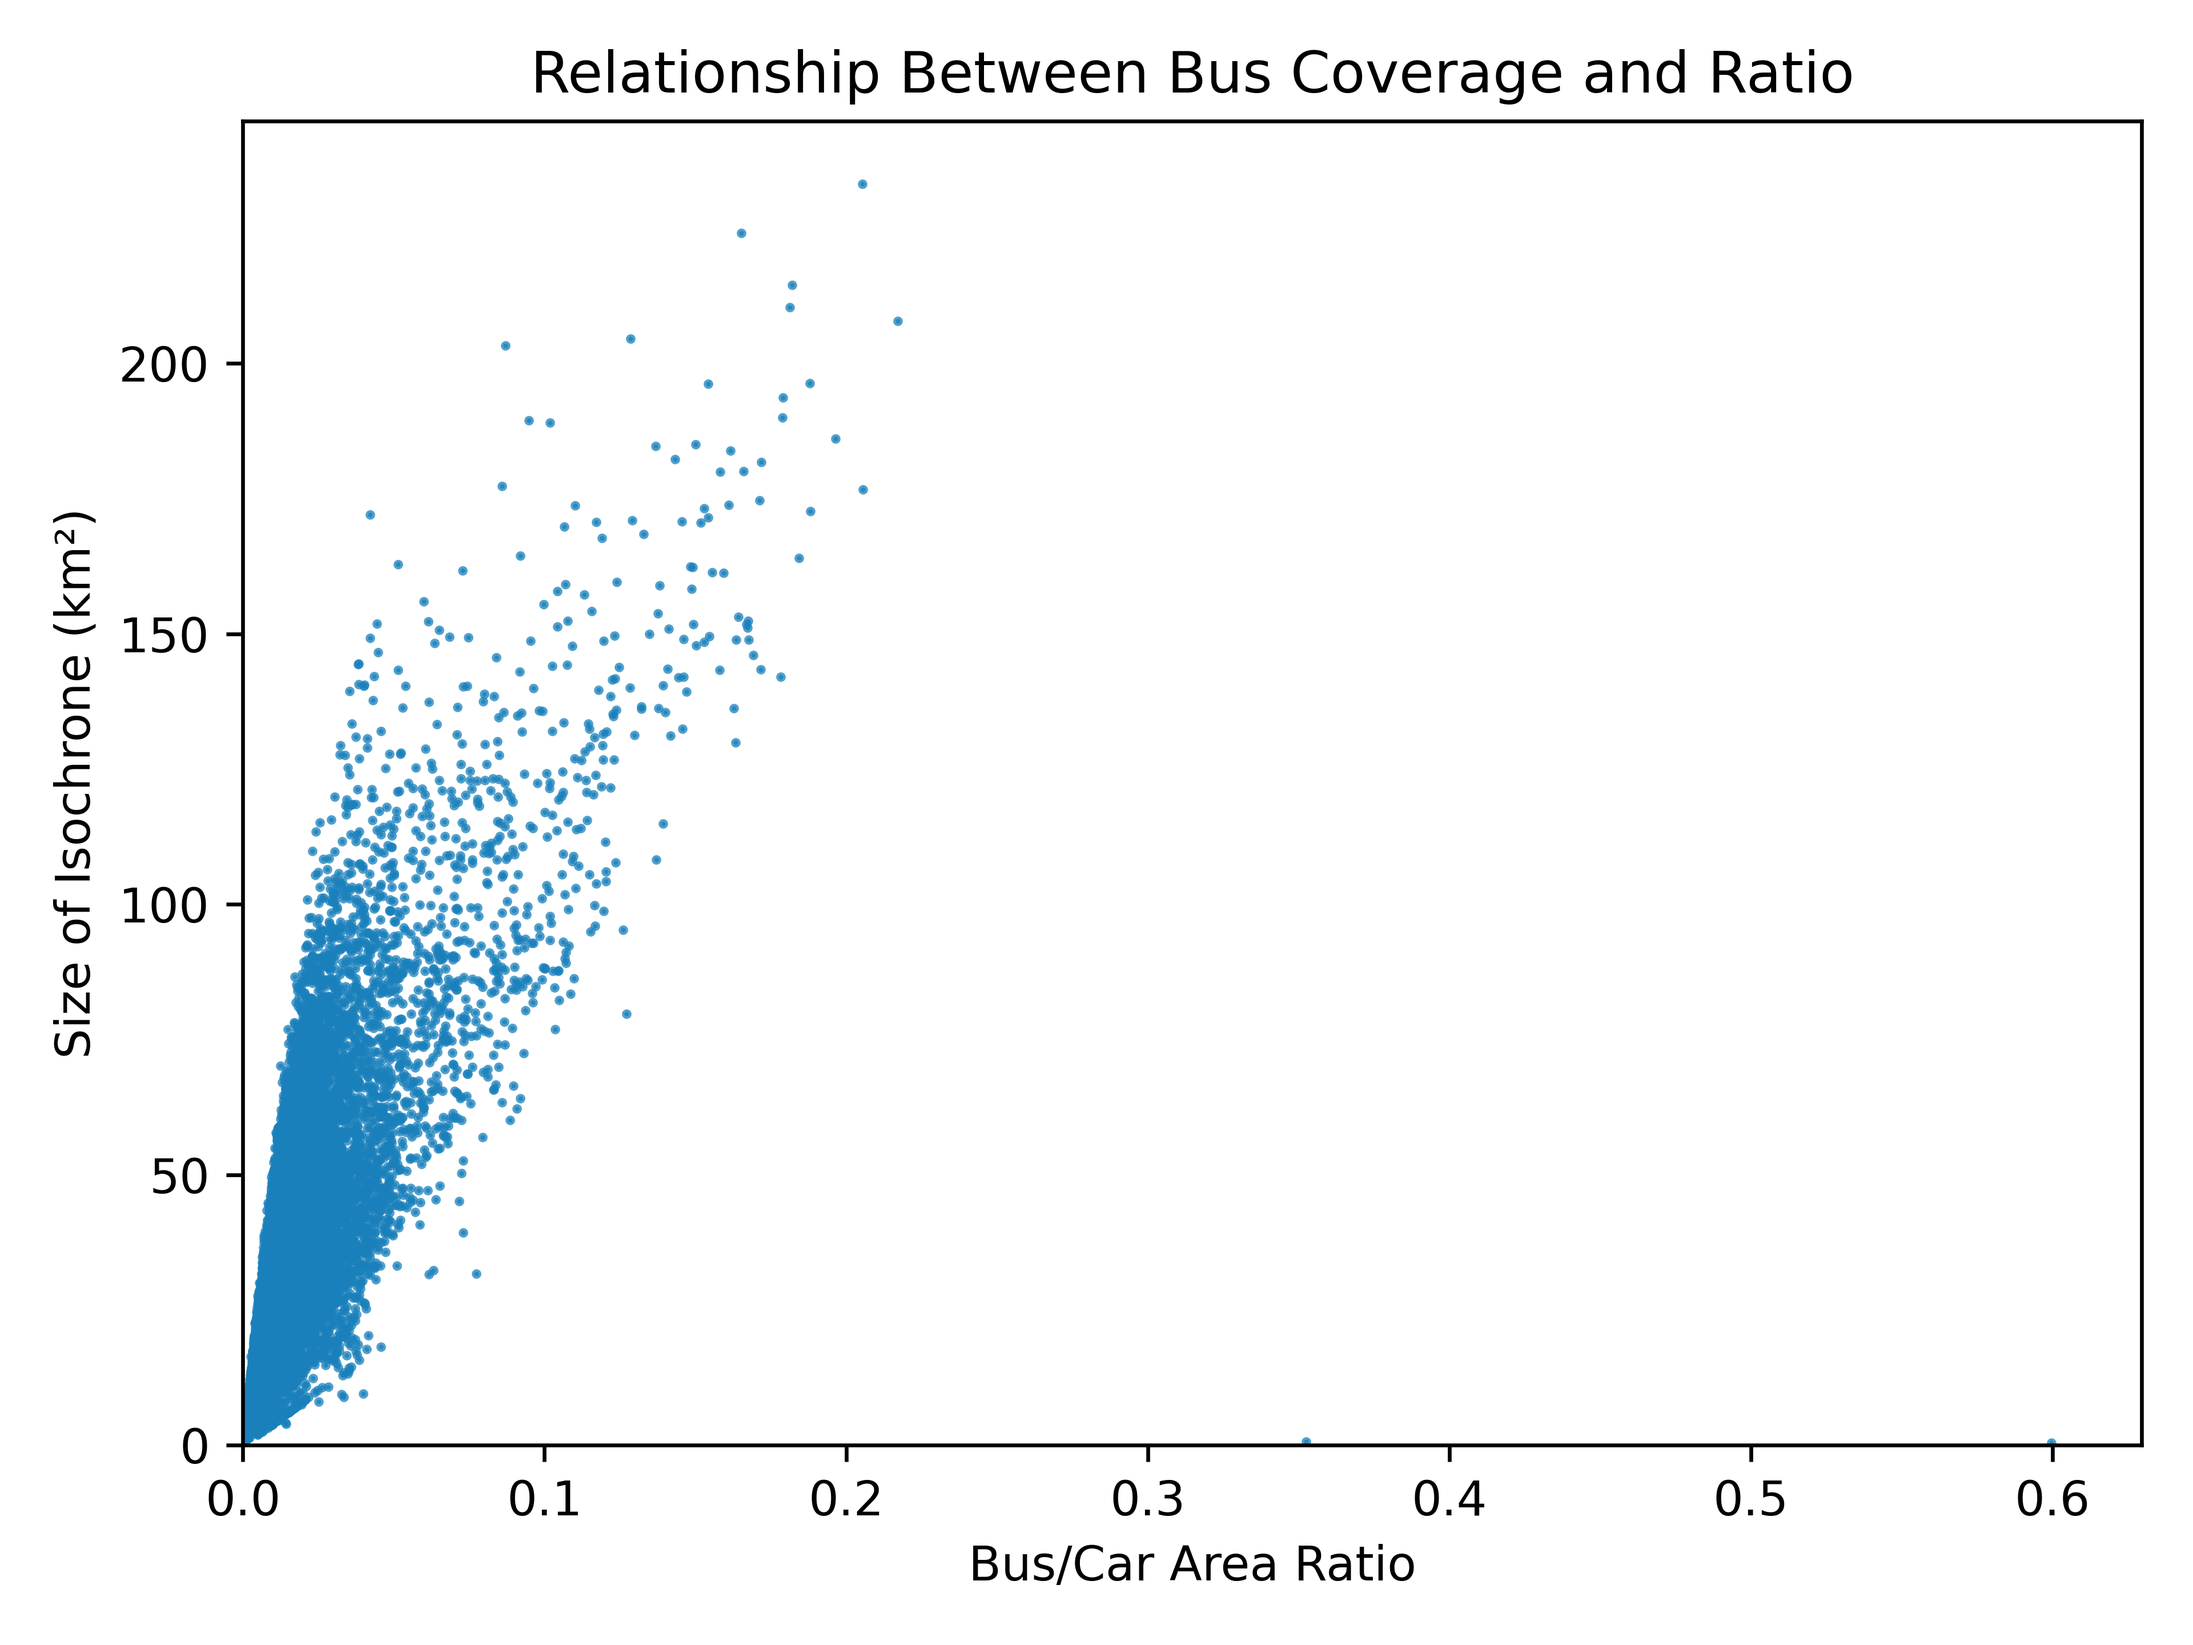
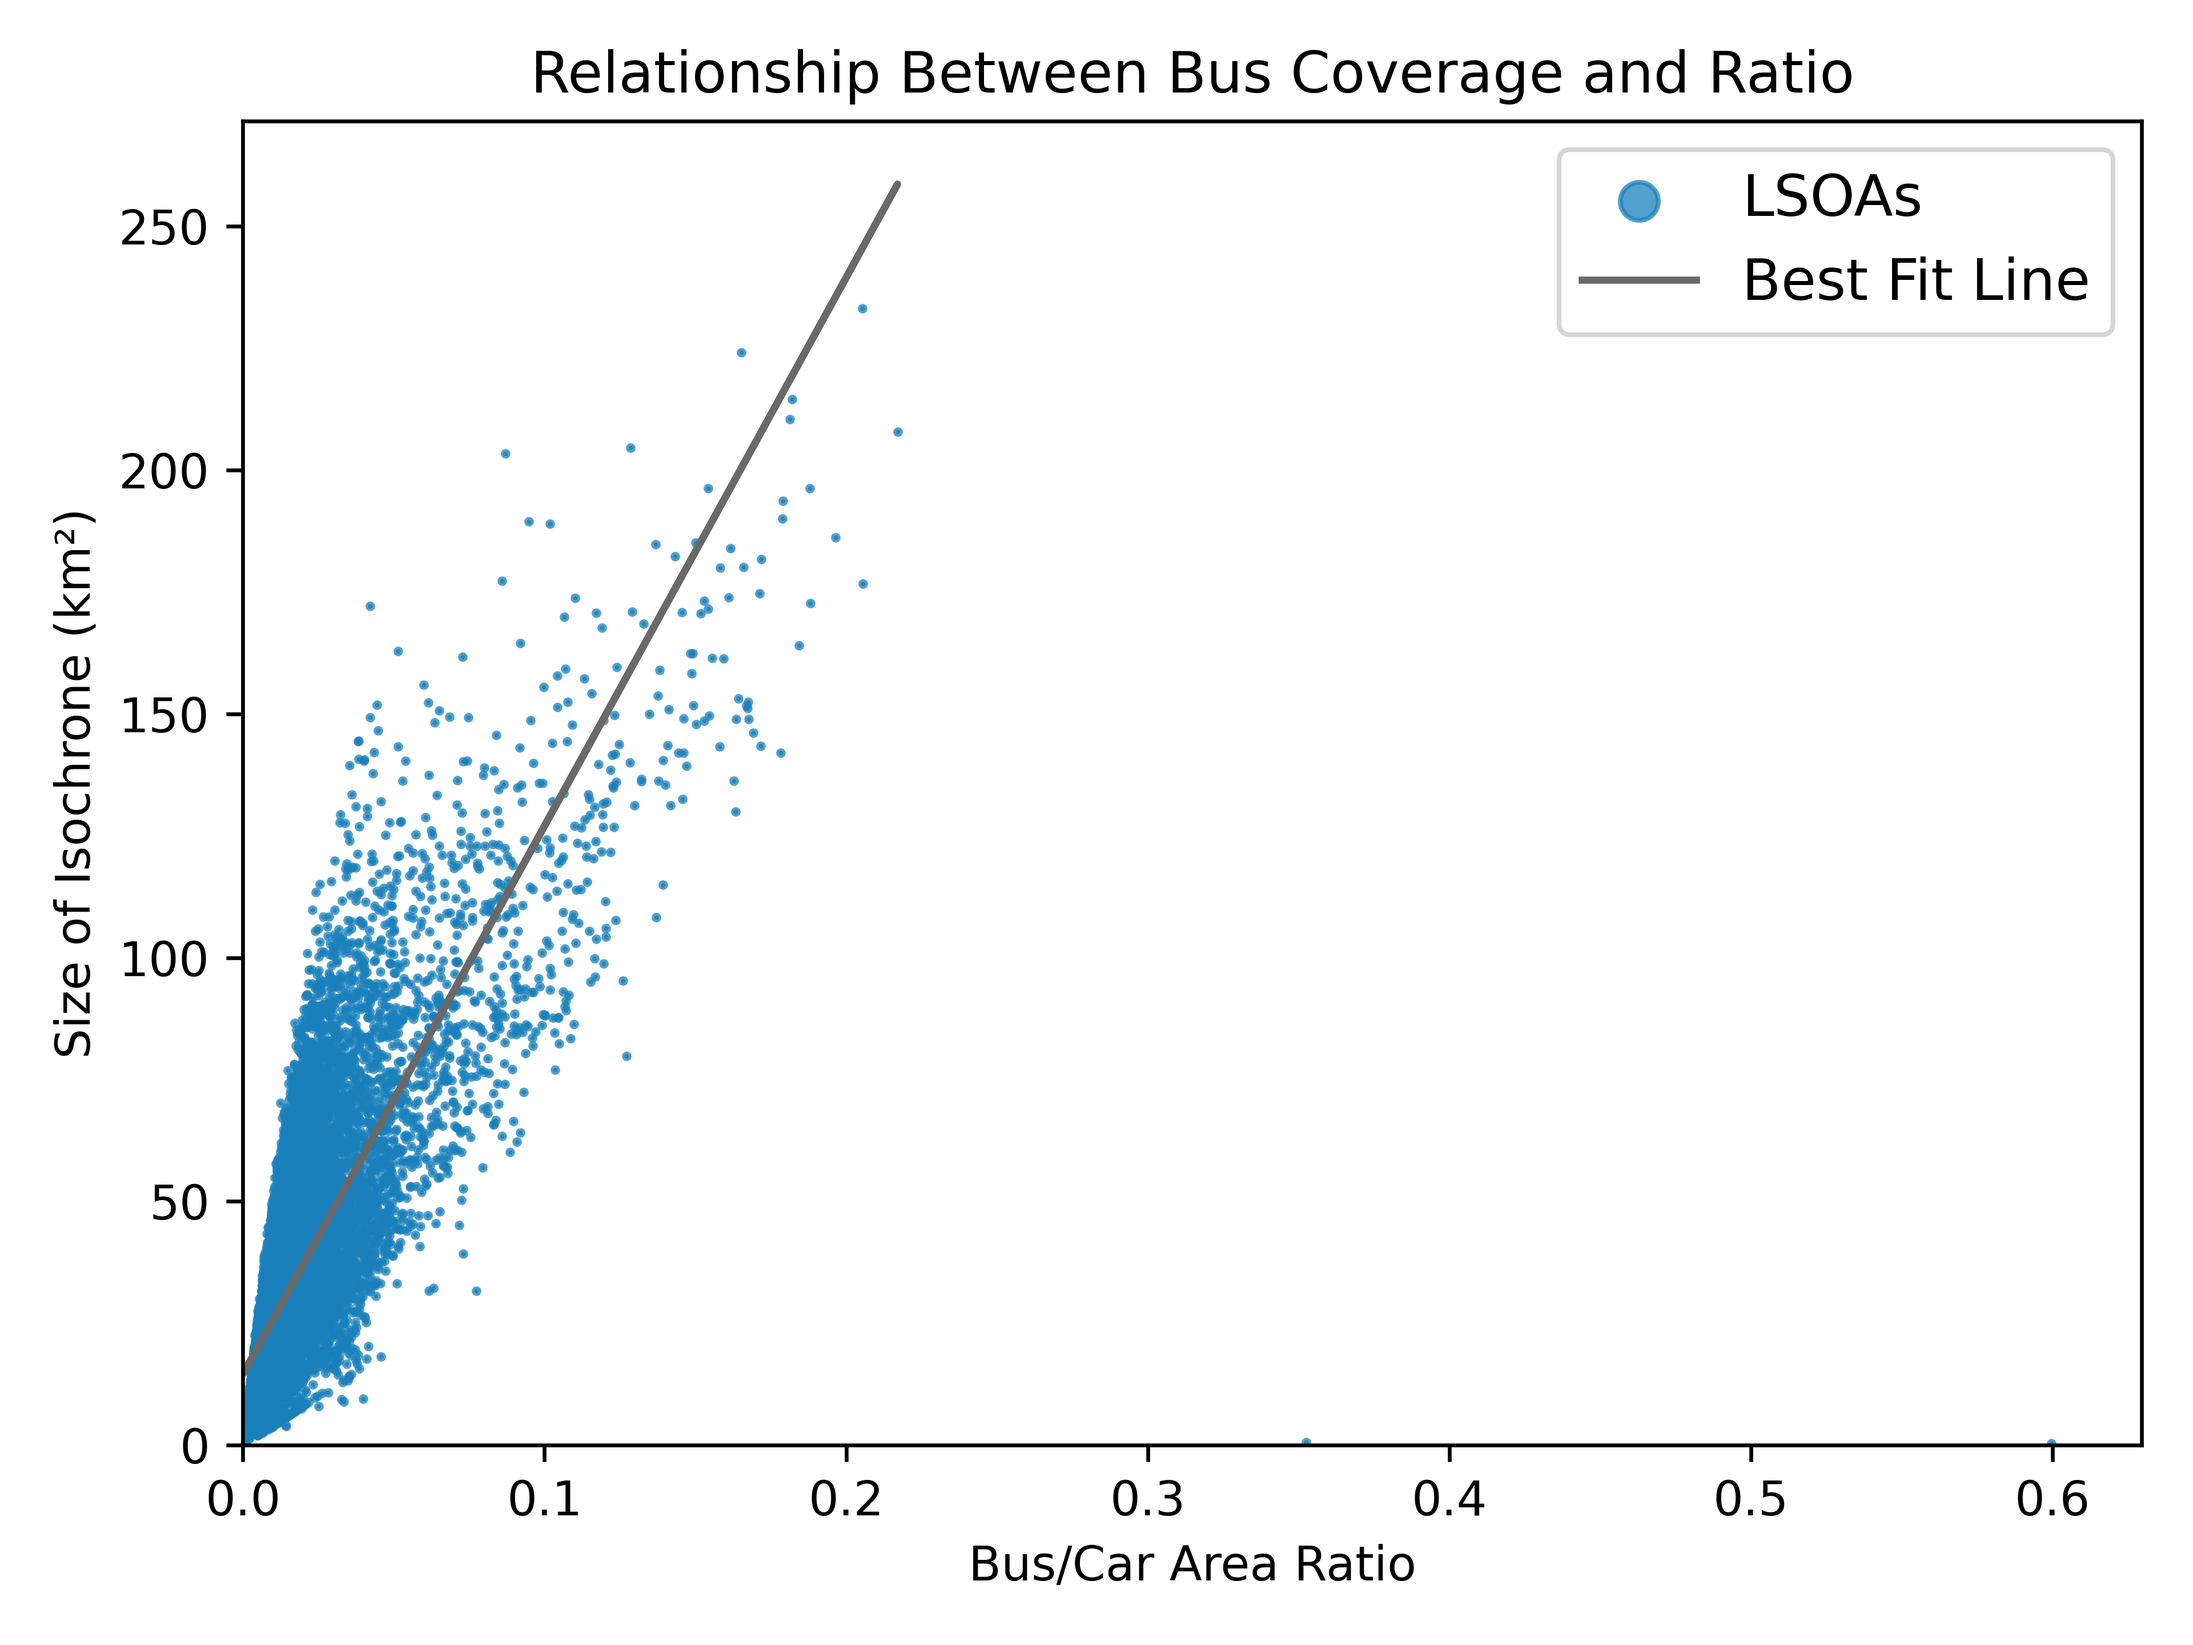
Add line of best fit to scatterplot

diff --git a/plotting/areas_scatterplots.py b/plotting/areas_scatterplots.py
@@ -44,7 +44,13 @@ plt.close()
 # Plot bus to area ratio
 coef = pearsonr(areas['ratio'], areas['bus_area'])
 print(f"Bus-Ratio Correlation Coefficient: {coef.statistic:.2f} ({coef.pvalue})")
-plt.scatter(areas['ratio'], areas['bus_area'], color="#1a80bb", alpha=0.75, s=1)
+plt.scatter(areas['ratio'], areas['bus_area'], color="#1a80bb", alpha=0.75, s=1, label="LSOAs")
+
+# Add line of best fit
+subset = areas[areas['ratio'] < 0.3]
+slope, intercept = np.polyfit(areas['ratio'], areas['bus_area'], 1)
+plt.plot(subset['ratio'], slope*subset['ratio'] + intercept, color='dimgrey', linestyle='solid', linewidth=1.5, label='Best Fit Line')
+plt.legend(loc="upper right", fontsize=12, markerscale=8)
 
 # Add title and labels
 plt.title('Relationship Between Bus Coverage and Ratio')
